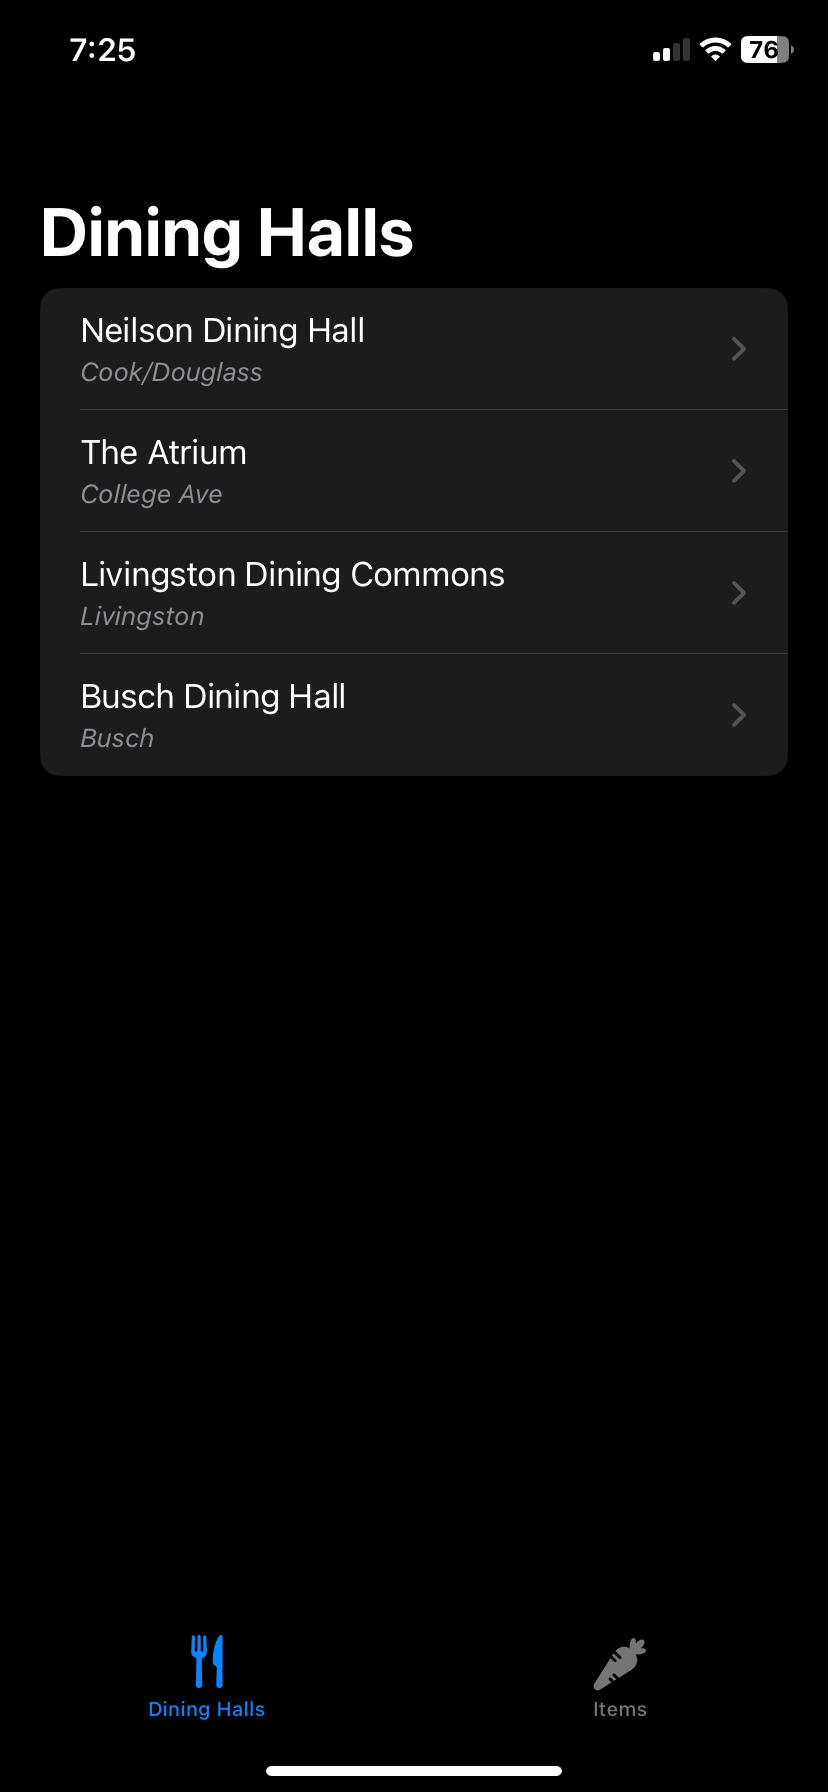
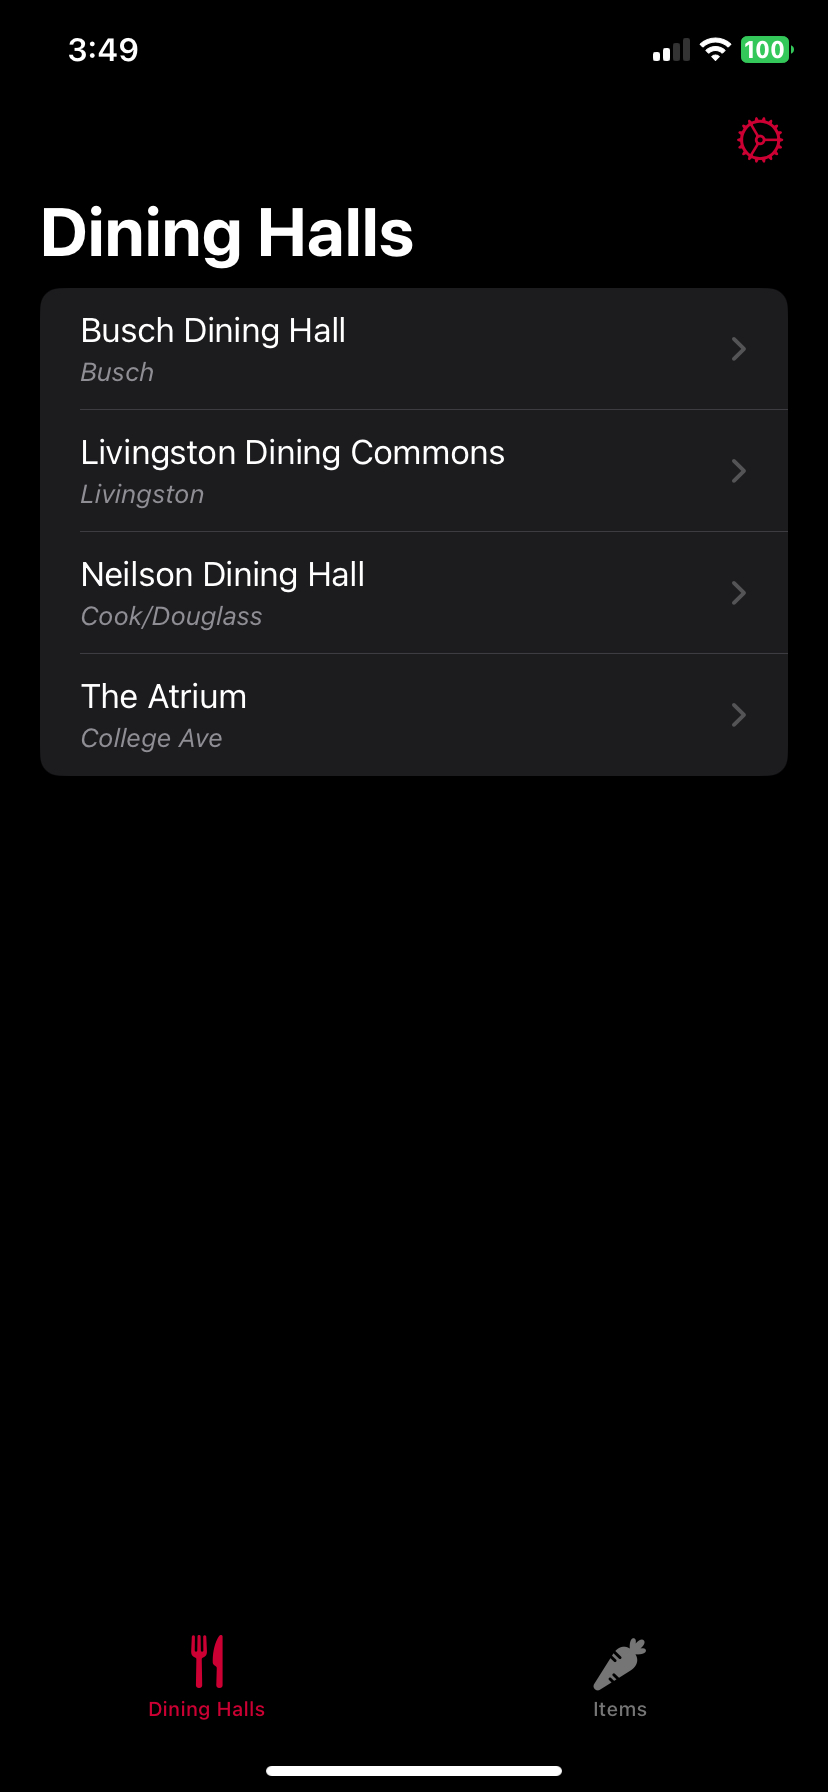
Update screenshots

diff --git a/README.md b/README.md
@@ -7,7 +7,8 @@ Rutgers dining hall menu app for iOS in Swift using SwiftUI and [SwiftSoup](http
 
 ## Screenshots
 <div display="flex">
-  <img src="./screenshots/dining-halls.png" width="25%">
-  <img src="./screenshots/menu.png" width="25%">
-  <img src="./screenshots/items.png" width="25%">
+  <img src="./screenshots/dining-halls.png" width="24%">
+  <img src="./screenshots/menu.png" width="24%">
+  <img src="./screenshots/item.png" width="24%">
+  <img src="./screenshots/settings.png" width="24%">
 </div>
